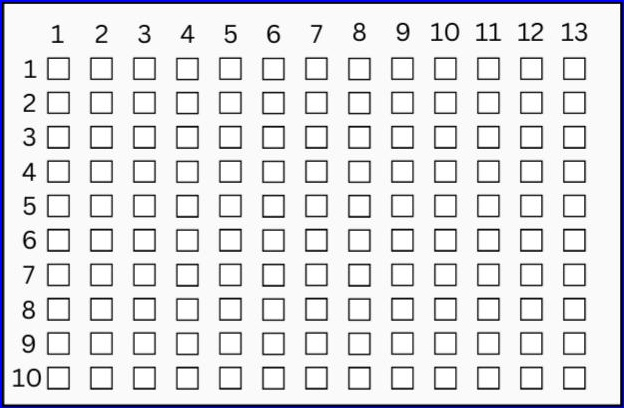
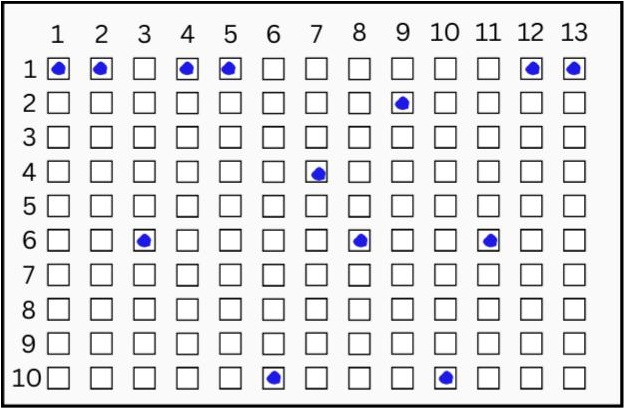
feat(image_processiing_core): add get answer s1,s2

diff --git a/main/image_processing_core.py b/main/image_processing_core.py
@@ -91,7 +91,7 @@ def cropPerspective(filename : str):
     # cv2.waitKey()
     return warped
 
-def find_squares(filename : str):
+def get_answer(filename : str):
     # Read input image
     img = cv2.imread(filename)
 
@@ -161,7 +161,9 @@ def find_squares(filename : str):
     roi = imt_arr_bgr[y:y+h, x:x+w]
     cv2.imwrite(f"{ROI}id.jpg", roi)
     
-    print(get_id())
+    # print(get_id())
+    get_section1()
+    get_section2()
 
 def get_id():
     # Load image, convert to grayscale, Gaussian blur, Otsu's threshold
@@ -176,7 +178,6 @@ def get_id():
     
     # Detect checkboxes using shape approximation and aspect ratio filtering
     checkbox_contours = []
-    checkbox_answer = []
         
     for c in cnts:
         peri = cv2.arcLength(c, True)
@@ -227,7 +228,149 @@ def get_id():
     return _id
     
 def get_section1():
+    # Load image, convert to grayscale, Gaussian blur, Otsu's threshold
+    image = cv2.imread(f'{ROI}section1.jpg')
+    original = image.copy()
+    gray = cv2.cvtColor(image, cv2.COLOR_BGR2GRAY)
+    blur = cv2.GaussianBlur(gray, (3,3), 0)
+    thresh = cv2.threshold(blur, 0, 255, cv2.THRESH_BINARY_INV + cv2.THRESH_OTSU)[1]
+    
+    # Find contours and filter using contour area filtering to remove noise
+    cnts, _ = cv2.findContours(thresh, cv2.RETR_TREE, cv2.CHAIN_APPROX_SIMPLE)
+    
+    # Detect checkboxes using shape approximation and aspect ratio filtering
+    checkbox_contours = []
+    
+    for c in cnts:
+        peri = cv2.arcLength(c, True)
+        approx = cv2.approxPolyDP(c, 0.035 * peri, True)
+        x,y,w,h = cv2.boundingRect(approx)
+        aspect_ratio = w / float(h)
+        if len(approx) == 4 and (aspect_ratio >= 0.8 and aspect_ratio <= 1.2)  and (w >= 33 and w <= 35):
+            # cv2.putText(original, str(w), (x,y - 10), cv2.FONT_HERSHEY_SIMPLEX, 0.9, (36,255,12), 2)
+            cv2.rectangle(original, (x, y), (x + w, y + h), (36,255,12), 3)
+            checkbox_contours.append(c)
+
+    print('Checkboxes:', len(checkbox_contours))
+    
+    section1Cnts = contours.sort_contours(checkbox_contours,"top-to-bottom")[0]
+    section1List = []
+    
+    for (q, i) in enumerate(np.arange(0, len(section1Cnts), 4)):
+        # sort the contours for the current question from
+        # left to right, then initialize the index of the
+        # check answer
+        cnts = contours.sort_contours(section1Cnts[i:i + 4])[0]
+        answer = None
+    # loop over the sorted contours
+        for (j, c) in enumerate(cnts):
+            # construct a mask that reveals only the current
+            # "box" for the question
+            mask = np.zeros(thresh.shape, dtype="uint8")
+            cv2.drawContours(mask, [c], -1, 255, -1)
+            
+            # apply the mask to the thresholded image, then
+            # count the number of non-zero pixels in the
+            # box area
+            mask = cv2.bitwise_and(thresh, thresh, mask=mask)
+            total = cv2.countNonZero(mask)
+            
+            # if the current total has a larger number of total
+            # non-zero pixels, then we are examining the currently
+            # bubbled-in answer
+            
+            if answer is None and total > 400:
+                answer = (q+1,get_answer_notation(j+1))
+                
+            elif answer is not None and total > 400 : 
+                answer = (q+1,None) 
+            
+            if j+1 == 4 and answer is None:
+                answer = (q+1,None) 
+                
+        section1List.append(answer)
+            
+            # cv2.imshow("mask", mask)
+            # cv2.waitKey()
+
+    print('section1List:', section1List)
+    
     return True
 
 def get_section2():
+    # Load image, convert to grayscale, Gaussian blur, Otsu's threshold
+    image = cv2.imread(f'{ROI}section2.jpg')
+    original = image.copy()
+    gray = cv2.cvtColor(image, cv2.COLOR_BGR2GRAY)
+    blur = cv2.GaussianBlur(gray, (3,3), 0)
+    thresh = cv2.threshold(blur, 0, 255, cv2.THRESH_BINARY_INV + cv2.THRESH_OTSU)[1]
+    
+    # Find contours and filter using contour area filtering to remove noise
+    cnts, _ = cv2.findContours(thresh, cv2.RETR_TREE, cv2.CHAIN_APPROX_SIMPLE)
+    
+    # Detect checkboxes using shape approximation and aspect ratio filtering
+    checkbox_contours = []
+    
+    for c in cnts:
+        peri = cv2.arcLength(c, True)
+        approx = cv2.approxPolyDP(c, 0.035 * peri, True)
+        x,y,w,h = cv2.boundingRect(approx)
+        aspect_ratio = w / float(h)
+        if len(approx) == 4 and (aspect_ratio >= 0.8 and aspect_ratio <= 1.2)  and (w >= 33 and w <= 35):
+            # cv2.putText(original, str(w), (x,y - 10), cv2.FONT_HERSHEY_SIMPLEX, 0.9, (36,255,12), 2)
+            cv2.rectangle(original, (x, y), (x + w, y + h), (36,255,12), 3)
+            checkbox_contours.append(c)
+
+    print('Checkboxes:', len(checkbox_contours))
+    
+    section2Cnts = contours.sort_contours(checkbox_contours,"top-to-bottom")[0]
+    section2List = []
+    
+    for (q, i) in enumerate(np.arange(0, len(section2Cnts), 4)):
+        # sort the contours for the current question from
+        # left to right, then initialize the index of the
+        # check answer
+        cnts = contours.sort_contours(section2Cnts[i:i + 4])[0]
+        answer = None
+    # loop over the sorted contours
+        for (j, c) in enumerate(cnts):
+            # construct a mask that reveals only the current
+            # "box" for the question
+            mask = np.zeros(thresh.shape, dtype="uint8")
+            cv2.drawContours(mask, [c], -1, 255, -1)
+            
+            # apply the mask to the thresholded image, then
+            # count the number of non-zero pixels in the
+            # box area
+            mask = cv2.bitwise_and(thresh, thresh, mask=mask)
+            total = cv2.countNonZero(mask)
+            
+            # if the current total has a larger number of total
+            # non-zero pixels, then we are examining the currently
+            # bubbled-in answer
+            
+            if answer is None and total > 400:
+                answer = (q+21,get_answer_notation(j+1))
+                
+            elif answer is not None and total > 400 : 
+                answer = (q+21,None) 
+            
+            if j+1 == 4 and answer is None:
+                answer = (q+21,None) 
+                
+        section2List.append(answer)
+            
+            # cv2.imshow("mask", mask)
+            # cv2.waitKey()
+
+    print('section2List:', section2List)
+    
     return True
+
+def get_answer_notation(value):
+     return {
+        1: 'ก',
+        2: 'ข',
+        3: 'ค',
+        4: 'ง',
+    }.get(value, None)  

diff --git a/main/server.py b/main/server.py
@@ -1,6 +1,6 @@
 from fastapi import FastAPI
 from fastapi import UploadFile,File
-from image_processing_core import cropPerspective ,find_squares
+from image_processing_core import cropPerspective ,get_answer
 from PIL import Image
 import uvicorn
 import uuid
@@ -28,7 +28,7 @@ async def predict_image(file:UploadFile = File(...)):
     im = Image.fromarray(numpy_array)
     im_crop = f"{IMAGECROPDIR}{uuid.uuid4()}.jpg"
     im.save(im_crop)
-    find_squares(im_crop)
+    get_answer(im_crop)
     
     return {"headers":file.headers ,"filename": file.filename}
 
